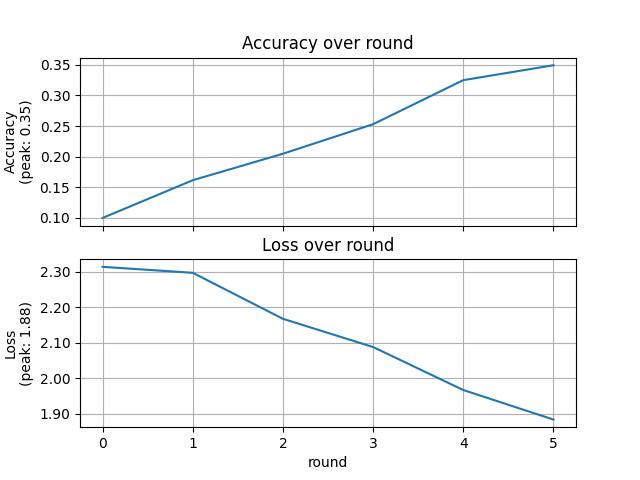
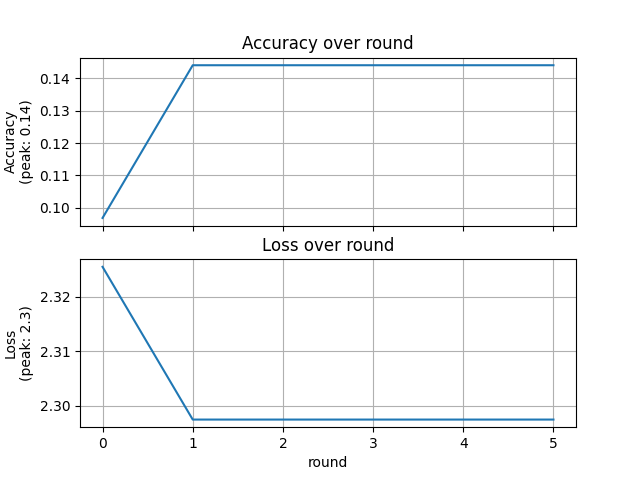
poisoning

diff --git a/src/FlowerClient.py b/src/FlowerClient.py
@@ -1,6 +1,7 @@
 import flwr as fl
 import numpy as np
 import gc
+from secml.adv.attacks import CAttackPoisoning
 
 
 import ModelConf
@@ -17,19 +18,50 @@ class FlowerClient(fl.client.NumPyClient):
     def __init__(self, client_partition_training_data, model_conf: ModelConf.ModelConf, cid) -> None:
         self.model_conf = model_conf
         
-        (self.x_train, y_train) = client_partition_training_data
-        if model_conf.poisoning and gv.POISONER_CLIENT_CID == cid:
+        (x_train, y_train) = client_partition_training_data
+        if model_conf.poisoning and (cid in gv.POISONERS_CLIENTS_CID):
             print(f'client {cid} starting label flipping poisoning')
             logger.info(f'client {cid} starting label flipping poisoning')
             self.y_train = np.random.permutation(y_train)
+            self.run_secml_poisoning()
         else:
+            self.x_train = x_train
             self.y_train = y_train
             
+        del x_train
         del y_train
         gc.collect()
         
         self.model = self.model_conf.get_model()
 
+
+    def run_secml_poisoning(self):
+        solver_params = {
+            'eta': 0.05,
+            'eta_min': 0.05,
+            'eta_max': None,
+            'max_iter': 100,
+            'eps': 1e-6
+        }
+        
+        seed_value = 5
+        
+        pois_attack = CAttackPoisoning(
+            classifier=self.model,
+            training_data=(self.x_train,self.y_train),
+            val=(self.model_conf.x_test, self.model_conf.y_test),
+            solver_params=solver_params,
+            random_seed=seed_value
+            )
+        
+        xc = self.x_train
+        yc = self.y_train
+        pois_attack.x0 = xc
+        pois_attack.xc = xc
+        pois_attack.yc = yc
+        
+        pois_attack.n_points = len(self.x_train) * 0.2
+        pois_attack.run(self.model_conf.x_test, self.model_conf.y_test)
 
     def get_parameters(self, config):
         return self.model.get_weights()

diff --git a/src/main.py b/src/main.py
@@ -71,11 +71,11 @@ def clear_ram():
 start_cifa10(False)
 clear_ram()
 
-start_mnist(False)
-clear_ram()
+# start_mnist(False)
+# clear_ram()
 
-start_cifar100(False)
-clear_ram()
+# start_cifar100(False)
+# clear_ram()
 
 
 
@@ -87,10 +87,10 @@ clear_ram()
 start_cifa10(True)
 clear_ram()
 
-start_mnist(True)
-clear_ram()
+# start_mnist(True)
+# clear_ram()
 
-start_cifar100(True)
-clear_ram()
+# start_cifar100(True)
+# clear_ram()
 
 

diff --git a/src/Server.py b/src/Server.py
@@ -21,7 +21,7 @@ class Server:
         
 
     def start_simulation(self):
-        client_resources = {"num_cpus": 4, "num_gpus": 1}
+        client_resources = {"num_cpus": 4, "num_gpus": 0.5}
         fl.simulation.start_simulation(
             client_fn=get_client_fn(self.model_conf),
             num_clients=gv.CLIENTS_NUM,

diff --git a/src/globalVariable.py b/src/globalVariable.py
@@ -1,5 +1,5 @@
-import random
+import numpy as np
 
 CLIENTS_NUM = 10
 ROUNDS_NUM = 5
-POISONER_CLIENT_CID = random.randint(0, CLIENTS_NUM)
+POISONERS_CLIENTS_CID =  np.random.randint(0, CLIENTS_NUM, round((CLIENTS_NUM * 20) / 100))
